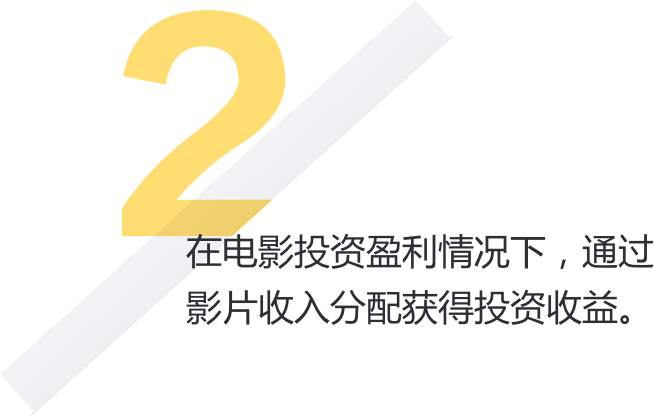
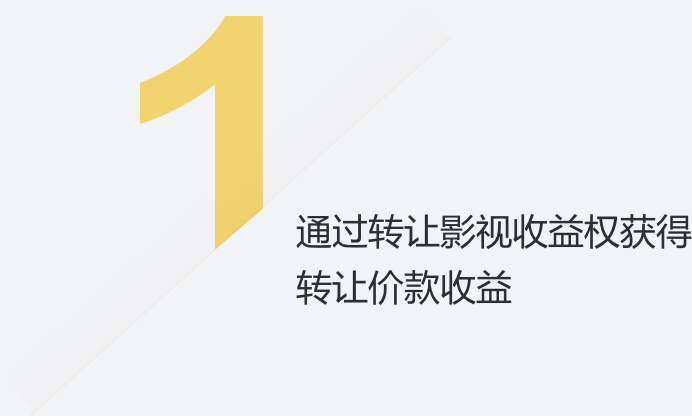
fix: 图片替换

Changed region(s): [[0.1835, 0.0, 1.0, 0.7812]]

diff --git a/app/client/containers/Class/index.js b/app/client/containers/Class/index.js
@@ -102,8 +102,8 @@ export class Class extends PureComponent {
         <section className="class-section-7">
           <h1 className="class-section-7-title class-section-title">怎么收益</h1>
           <div className="class-section-7-ways">
-            <img className="class-section-7-way-1" src={require('./imgs/pic_how_2@2x.png')} alt="通过转让电影收益权获得转让价款收益"/>
-            <img className="class-section-7-way-2" src={require('./imgs/pic_how_1@2x.png')} alt="在电影投资盈利情况下，通过影片收入分配获得投资利益"/>
+            <img className="class-section-7-way-1" src={require('./imgs/pic_how_1@2x.png')} alt="通过转让影视收益权获得转让价款收益"/>
+            <img className="class-section-7-way-2" src={require('./imgs/pic_how_2@2x.png')} alt="在影视投资盈利情况下，通过影片收入分配获得投资利益"/>
           </div>
           <div className="class-section-7-intro">
             其中，转让价款收益为项目成交价格扣除掉平台手续费之后的价款；投资收益为影片公映或上线后，制片方根据电影投资收益登记册，按照投资比例通过天金所资金结算系统进行收益分配。
